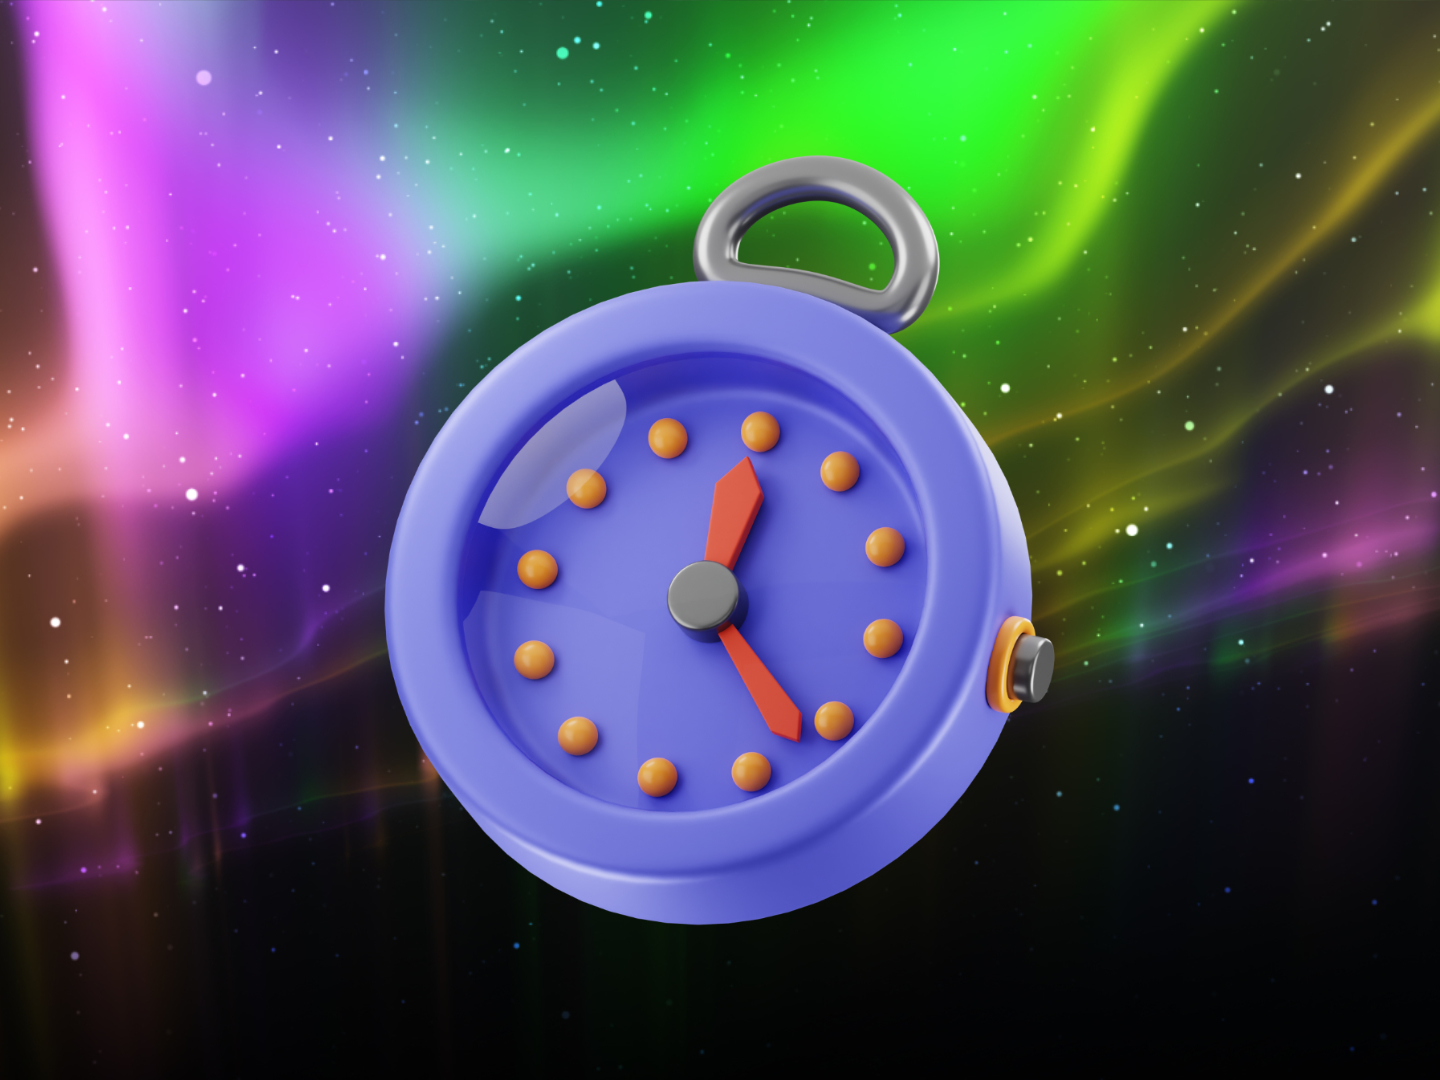
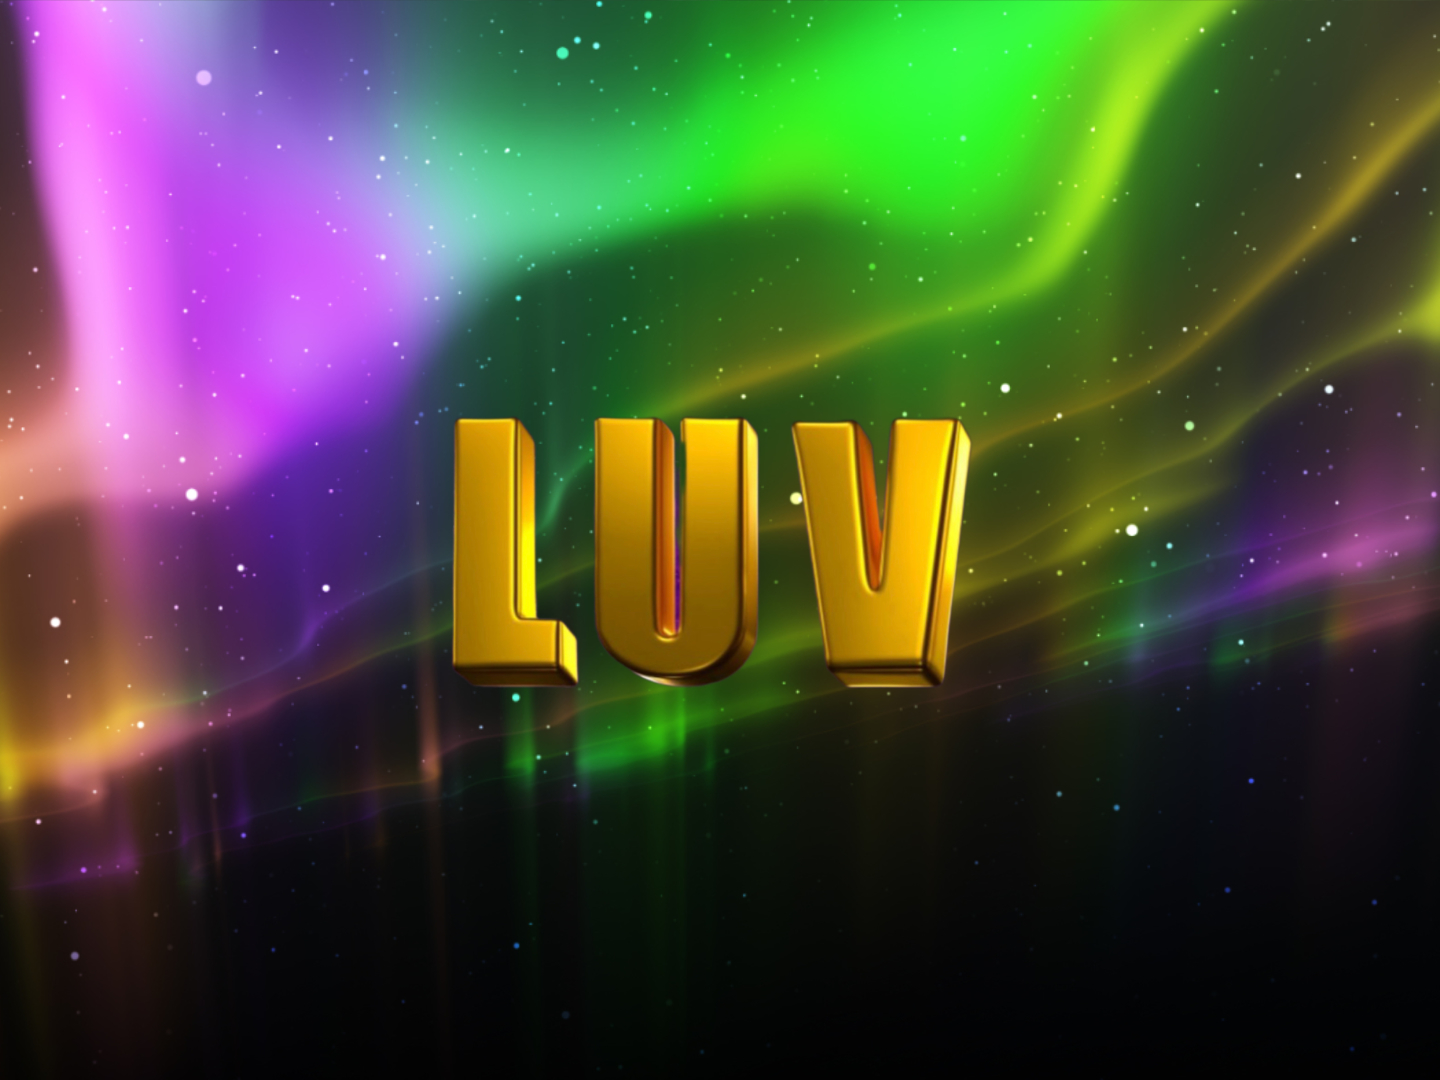
updated

Changed region(s): [[0.25, 0.1222, 0.75, 0.8556]]

diff --git a/src/components/Header.svelte b/src/components/Header.svelte
@@ -52,11 +52,11 @@
 		>
 		<a
 			class="mx-2 hover:border-b-2 border-spacing-3 border-indigo-500 transition duration-100"
-			href="/#blog">Blog</a
+			href="/#blog">News</a
 		>
 		<a
 			class="mx-2 hover:border-b-2 border-spacing-3 border-indigo-500 transition-all duration-100"
-			href="/#projects">Projects</a
+			href="/#projects">Web5</a
 		>
 		<a
 			class="ml-2 hover:border-b-2 border-spacing-3 border-indigo-500 transition-all duration-100"
@@ -114,8 +114,8 @@
 		<div class="wrapper" transition:slide>
 			<div class="mx-2 mb-4 flex flex-col text-2xl">
 				<a class="underline underline-offset-2" href="/about">About</a>
-				<a class="underline underline-offset-2" href="/#blog">Blog</a>
-				<a class="underline underline-offset-2" href="/#projects">Projects</a>
+				<a class="underline underline-offset-2" href="/#blog">News</a>
+				<a class="underline underline-offset-2" href="/#projects">Portfolio</a>
 				<a class="underline underline-offset-2" href="/#contact">Contact</a>
 			</div>
 		</div>

diff --git a/src/components/project2.svelte b/src/components/project2.svelte
@@ -10,14 +10,14 @@
 	const projects = [
 		{
 			id: 0,
-			title: "WakeMate",
-			tech: "Svelte, Typescript, Stripe, Mongo, Twilio",
+			title: "Live",
+			tech: "Live, LUV NFT, $LUV",
 			description:
-				"Subscription based service focused on waking users up and keeping them motivated.",
-			url: "https://wakemate.joemmalatesta.com",
+				"Stream live on blockchain and tokenize the highlights as a LUV NFT to monetize your content. ",
+			url: "https://live.luvnft.com",
 			buttonText: "Visit Site",
 			image: "projects/wakeMate.webp",
-			logos: ["svelte.png", "mongo.png", "twilio.svg", "stripe.png"],
+			logos: ["recorder.png", "matic.png"],
 			colors: ["#b8a6c1", "#8fa770"],
 		},
 		// {
@@ -86,8 +86,8 @@
 </script>
 
 <SectionHeader
-	title={"Portfolio"}
-	subtitle={"W"}
+	title={"WEB5"}
+	subtitle={"Tell us how we can improve these websites to receive $LUV."}
 />
 
 <div class="lg:flex flex-col hidden justify-center items-center py-3">

diff --git a/src/components/blog.svelte b/src/components/blog.svelte
@@ -28,8 +28,8 @@
 </head> -->
 <main>
 	<SectionHeader
-		title={"Blog"}
-		subtitle={"A history of my internal dialogue, trying to answer the questions I ask myself"}
+		title={"News"}
+		subtitle={"Stay updated with the latest Web5 news, education and spirituality self improvement."}
 	/>
 
 	<!-- BLOG AND OTHER CONTENT -->
